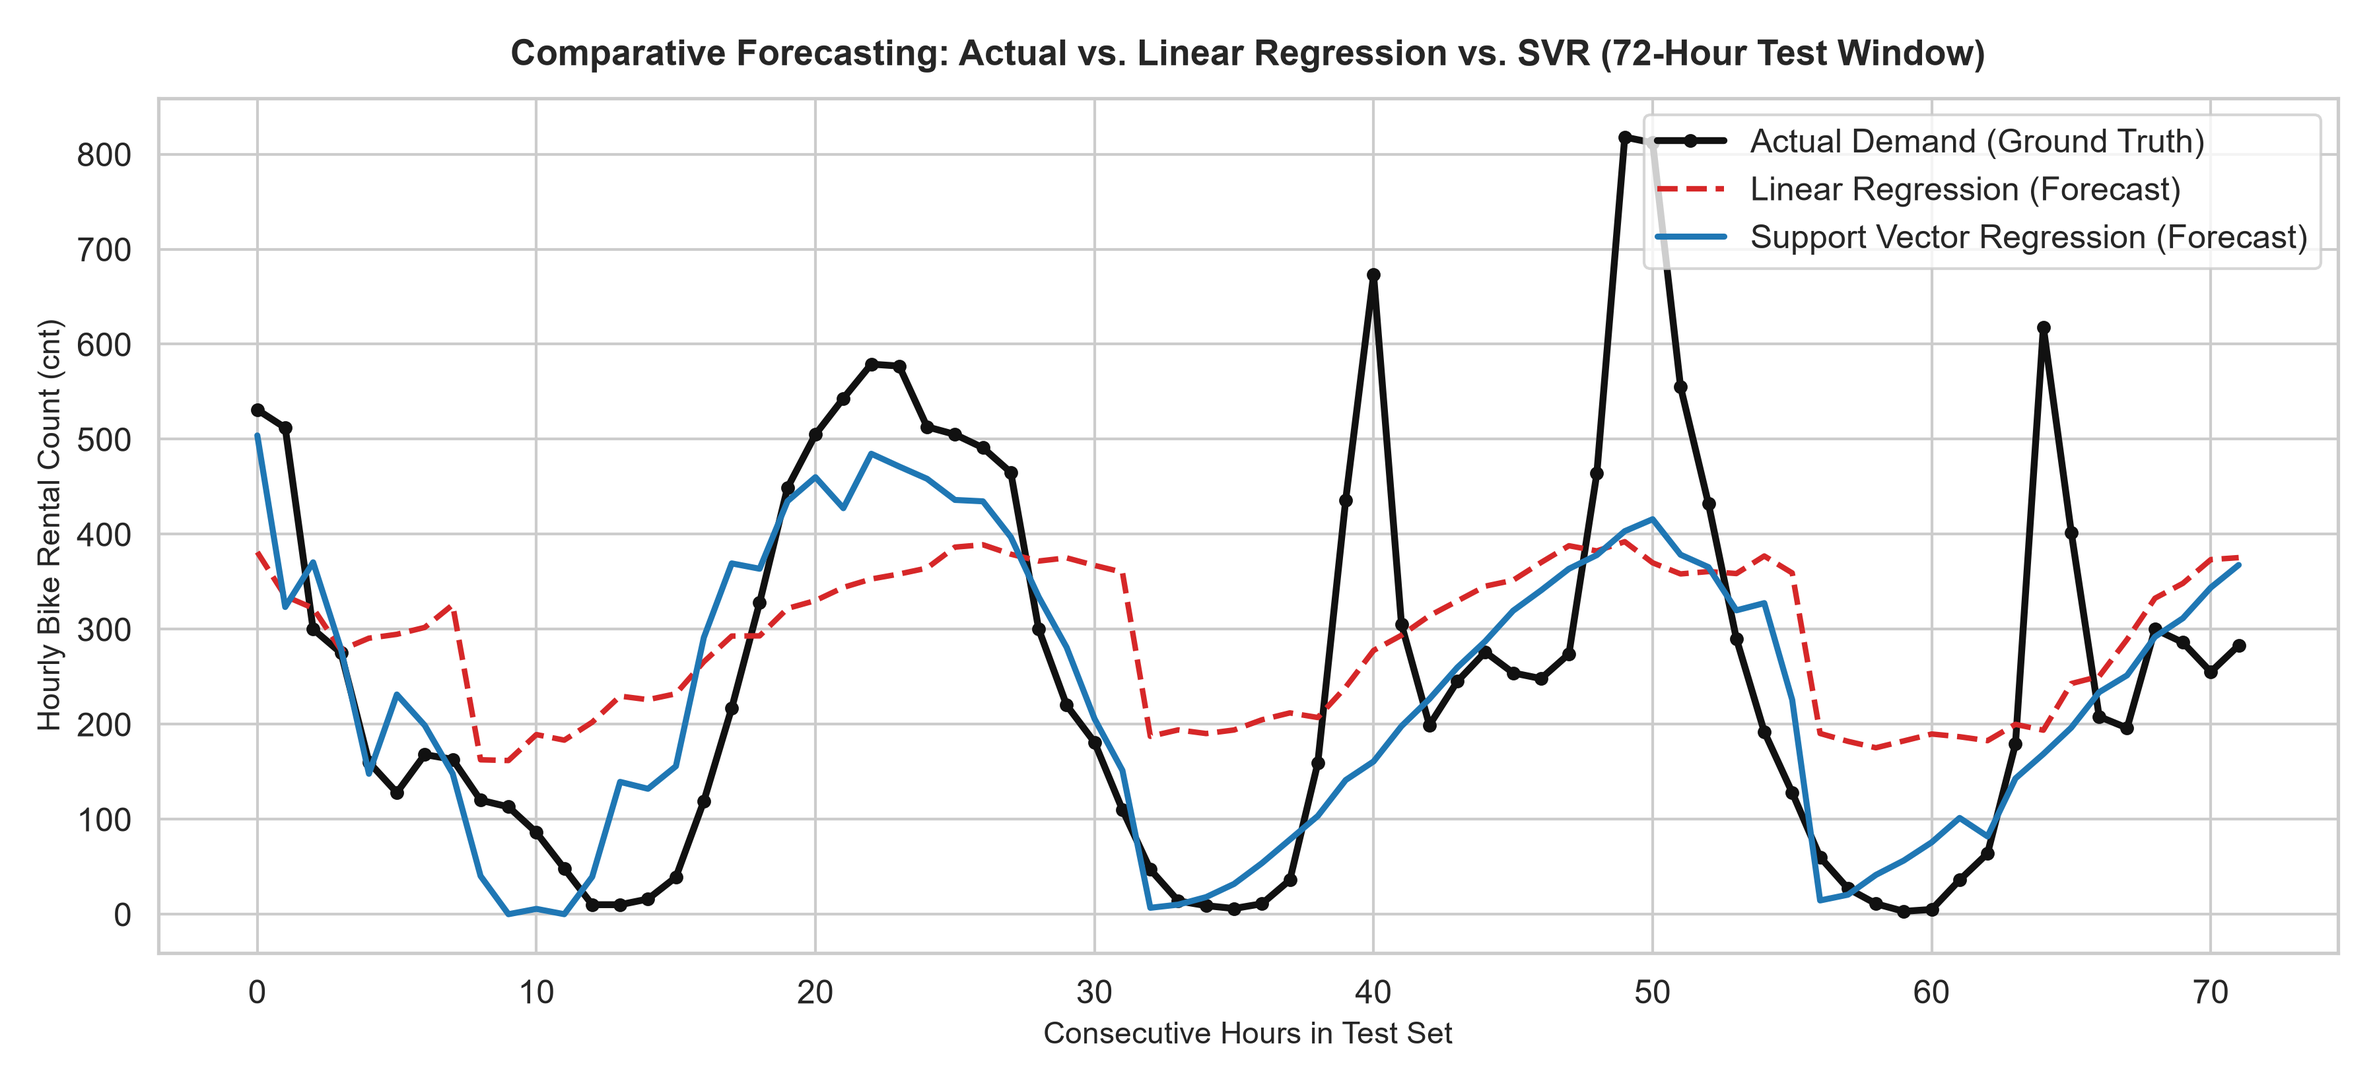
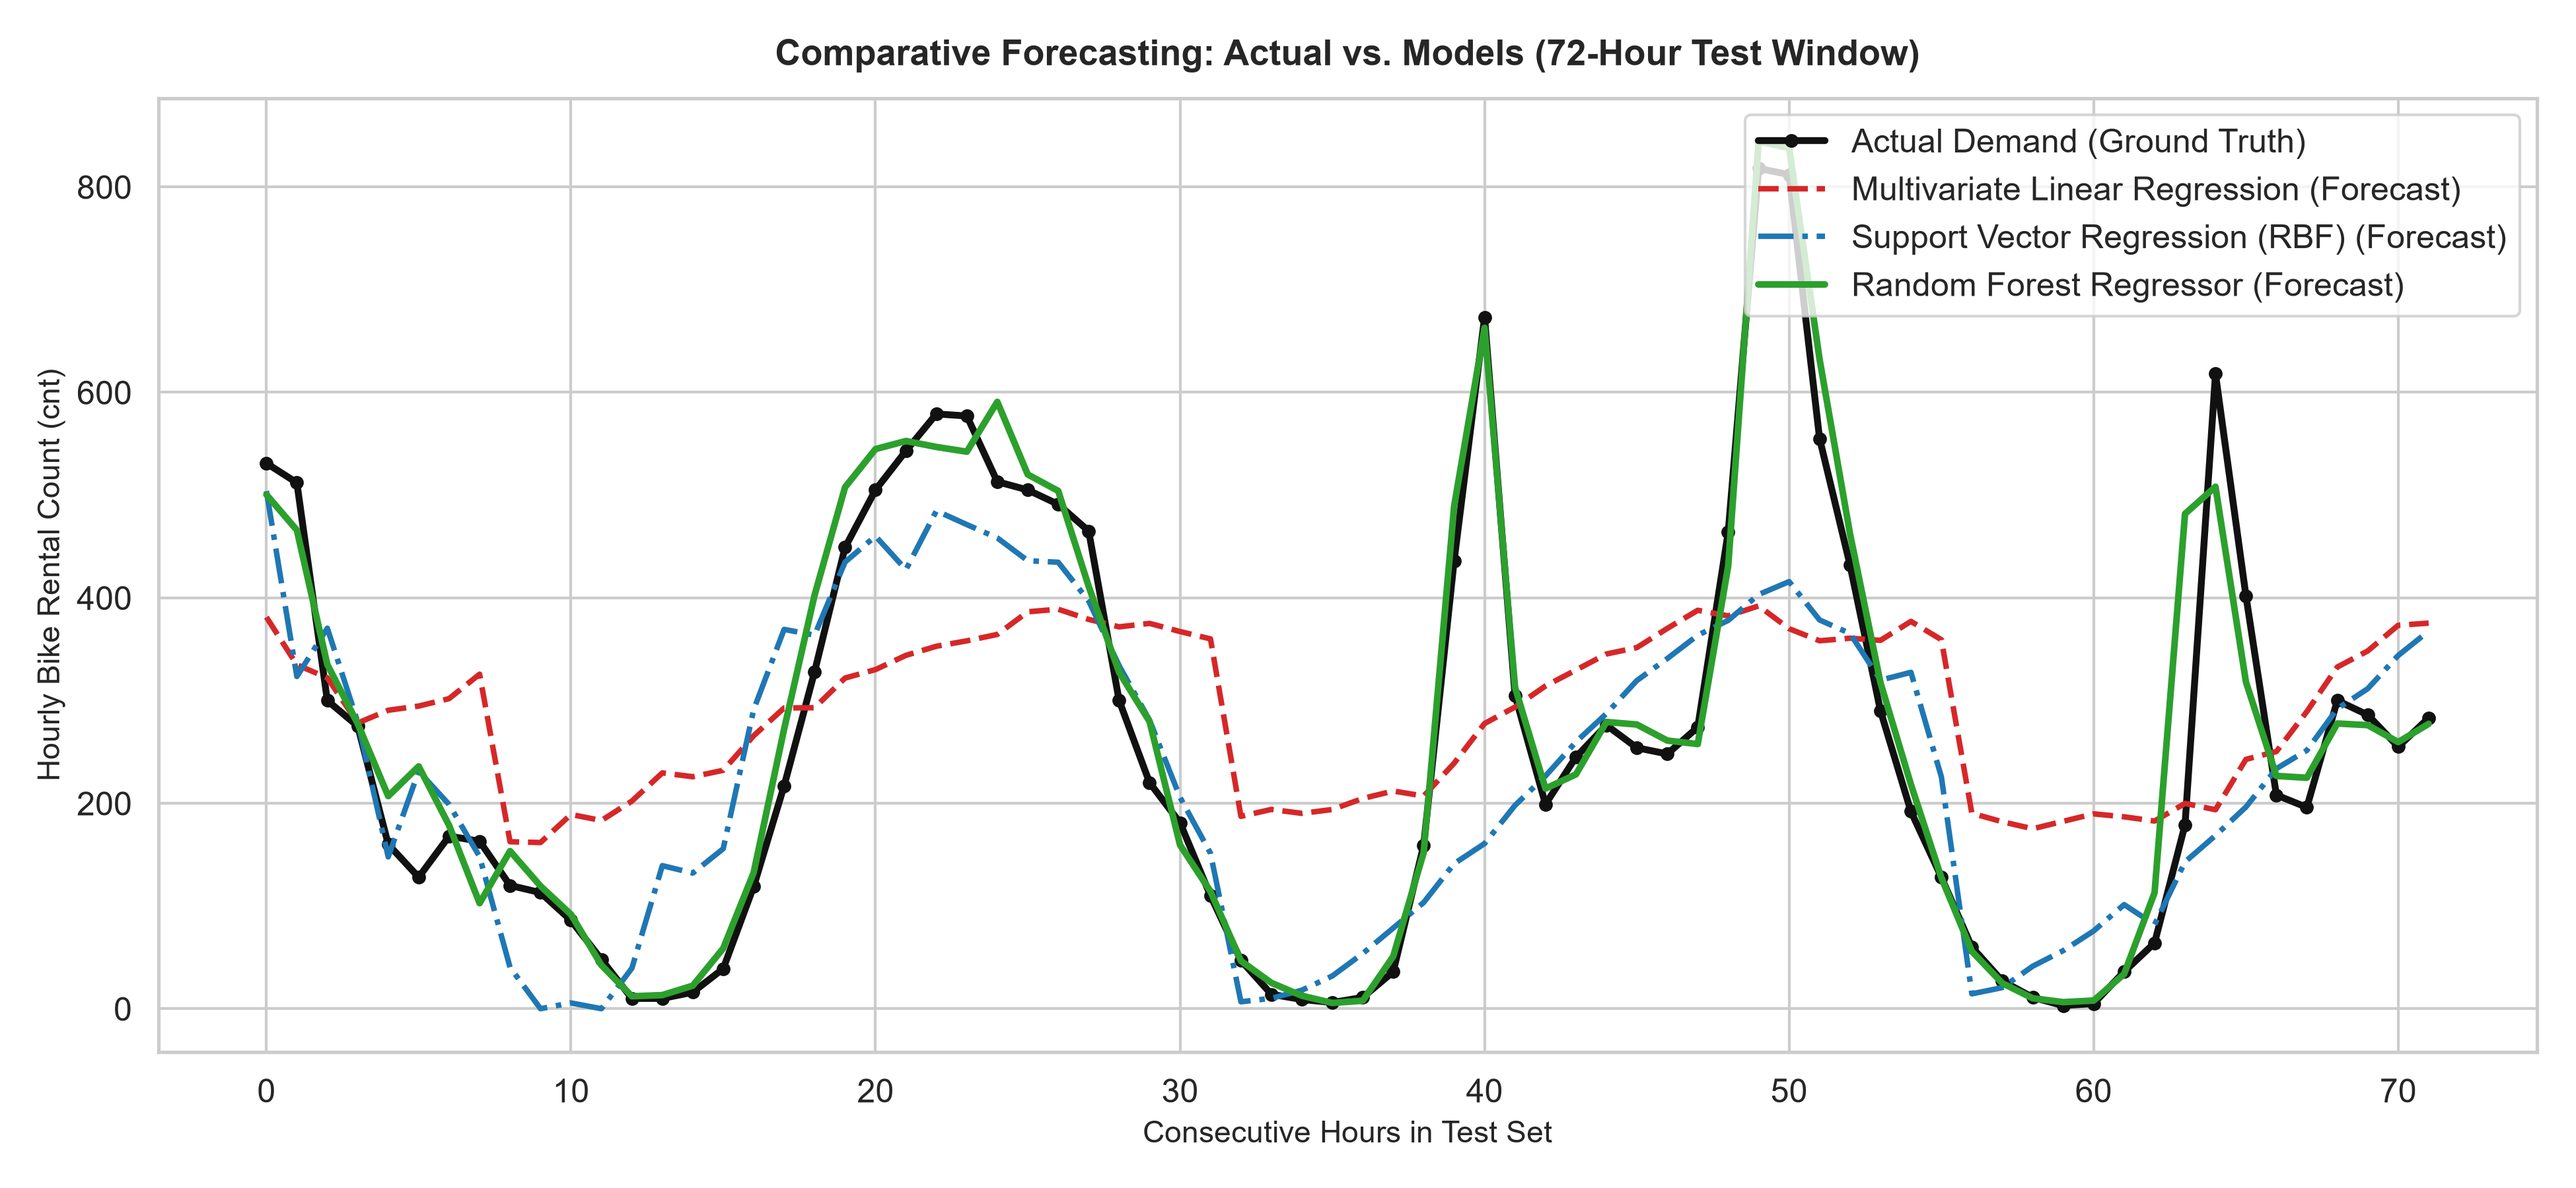
[feat] - add Random Forest Regressor and update comparative evaluation

diff --git a/src/train_forecast.py b/src/train_forecast.py
@@ -1,7 +1,8 @@
 """
+ECE 9603/9063 - Data Analytics Foundations
 Assignment 1: Forecasting
 Script: train_forecast.py (Master Pipeline Entry Point)
-Purpose: Coordinates data loading, trains the 2 distinct forecasting models,
+Purpose: Coordinates data loading, trains the 3 distinct forecasting models,
          evaluates metrics, and exports comparison tables & figures.
 """
 
@@ -12,7 +13,7 @@ import sys
 sys.path.append(os.path.dirname(__file__))
 
 from data_loader import load_and_preprocess_data
-from models import train_linear_regression, train_svr
+from models import train_linear_regression, train_svr, train_random_forest
 from evaluate import compute_metrics, save_comparison_table, plot_forecast_comparison
 
 def main():
@@ -21,7 +22,7 @@ def main():
     print("=" * 60)
     
     # 1. Load and preprocess data
-    print("\n[1/3] Loading and standardizing dataset...")
+    print("\n[1/4] Loading and standardizing dataset...")
     data = load_and_preprocess_data(data_path="data/hour.csv")
     print(f"      Training samples: {data['train_samples']} (First 80% chronologically)")
     print(f"      Testing samples:  {data['test_samples']} (Last 20% unseen future)")
@@ -30,7 +31,7 @@ def main():
     y_train, y_test = data['y_train'], data['y_test']
     
     # 2. Train Model 1: Multivariate Linear Regression
-    print("\n[2/3] Training Model 1: Multivariate Linear Regression (OLS)...")
+    print("\n[2/4] Training Model 1: Multivariate Linear Regression (OLS)...")
     lr_model, y_pred_lr = train_linear_regression(X_train, y_train, X_test)
     m_lr = compute_metrics(y_test, y_pred_lr, 'Multivariate Linear Regression', 'Parametric / Linear Hyperplane')
     print(f"      LR -> MAE: {m_lr['MAE (Bikes)']}, RMSE: {m_lr['RMSE (Bikes)']}, R²: {m_lr['R² Score']}")
@@ -41,21 +42,29 @@ def main():
     m_svr = compute_metrics(y_test, y_pred_svr, 'Support Vector Regression (RBF)', 'Non-Parametric / Kernel Dual Space')
     print(f"      SVR -> MAE: {m_svr['MAE (Bikes)']}, RMSE: {m_svr['RMSE (Bikes)']}, R²: {m_svr['R² Score']}")
     
-    # 4. Export Comparative Evaluation Table
-    print("\n[3/3] Exporting comparison deliverables...")
+    # 4. Train Model 3: Random Forest Regressor
+    print("\n      Training Model 3: Random Forest Regressor (Ensemble Bagging)...")
+    rf_model, y_pred_rf = train_random_forest(X_train, y_train, X_test)
+    m_rf = compute_metrics(y_test, y_pred_rf, 'Random Forest Regressor', 'Non-Parametric / Tree Bagging Ensemble')
+    print(f"      RF -> MAE: {m_rf['MAE (Bikes)']}, RMSE: {m_rf['RMSE (Bikes)']}, R²: {m_rf['R² Score']}")
+    
+    # 5. Export Comparative Evaluation Table
+    print("\n[3/4] Exporting comparison deliverables...")
     results_dir = os.path.join("assignment1", "results")
     table_path = os.path.join(results_dir, "model_comparison_results.csv")
-    comparison_table = save_comparison_table([m_lr, m_svr], table_path)
+    comparison_table = save_comparison_table([m_lr, m_svr, m_rf], table_path)
     print(f"      Saved table to: {table_path}\n")
     print(comparison_table.to_string(index=False))
     
-    # 5. Export 72-Hour Comparative Forecast Plot
+    # 6. Export 72-Hour Comparative Forecast Plot
+    print("\n[4/4] Generating 72-hour forecast comparison plot...")
     fig_path = os.path.join(results_dir, "fig2_model_forecast_comparison.png")
     plot_forecast_comparison(
         y_test, 
         {
             'Multivariate Linear Regression': y_pred_lr,
-            'Support Vector Regression (RBF)': y_pred_svr
+            'Support Vector Regression (RBF)': y_pred_svr,
+            'Random Forest Regressor': y_pred_rf
         },
         fig_path,
         window_start=100,

diff --git a/src/models.py b/src/models.py
@@ -1,14 +1,17 @@
 """
+ECE 9603/9063 - Data Analytics Foundations
 Assignment 1: Forecasting
 Module: models.py
 Purpose: Encapsulates model training and inference for:
          1. Multivariate Linear Regression (Parametric linear baseline)
          2. Support Vector Regression (Kernel dual space)
+         3. Random Forest Regressor (Non-parametric ensemble bagging)
 """
 
 import numpy as np
 from sklearn.linear_model import LinearRegression
 from sklearn.svm import SVR
+from sklearn.ensemble import RandomForestRegressor
 
 def train_linear_regression(X_train, y_train, X_test):
     """
@@ -25,6 +28,16 @@ def train_svr(X_train, y_train, X_test, kernel='rbf', C=100.0, epsilon=10.0):
     Fits a Support Vector Regression (SVR) model with an RBF kernel.
     """
     model = SVR(kernel=kernel, C=C, epsilon=epsilon)
+    model.fit(X_train, y_train)
+    y_pred = model.predict(X_test)
+    y_pred = np.clip(y_pred, 0, None)
+    return model, y_pred
+
+def train_random_forest(X_train, y_train, X_test, n_estimators=100, random_state=42):
+    """
+    Fits an ensemble Random Forest Regressor using bootstrap aggregation (bagging).
+    """
+    model = RandomForestRegressor(n_estimators=n_estimators, random_state=random_state)
     model.fit(X_train, y_train)
     y_pred = model.predict(X_test)
     y_pred = np.clip(y_pred, 0, None)

diff --git a/src/evaluate.py b/src/evaluate.py
@@ -1,4 +1,5 @@
 """
+ECE 9603/9063 - Data Analytics Foundations
 Assignment 1: Forecasting
 Module: evaluate.py
 Purpose: Computes evaluation metrics (MAE, RMSE, R²) and generates
@@ -62,7 +63,8 @@ def plot_forecast_comparison(y_test, predictions_dict, output_path, window_start
     # Colors and styles for each model
     styles = {
         'Multivariate Linear Regression': {'color': '#d62728', 'linestyle': '--', 'linewidth': 2.0},
-        'Support Vector Regression (RBF)': {'color': '#1f77b4', 'linestyle': '-', 'linewidth': 2.2}
+        'Support Vector Regression (RBF)': {'color': '#1f77b4', 'linestyle': '-.', 'linewidth': 2.0},
+        'Random Forest Regressor': {'color': '#2ca02c', 'linestyle': '-', 'linewidth': 2.4}
     }
     
     # 2. Model forecasts
